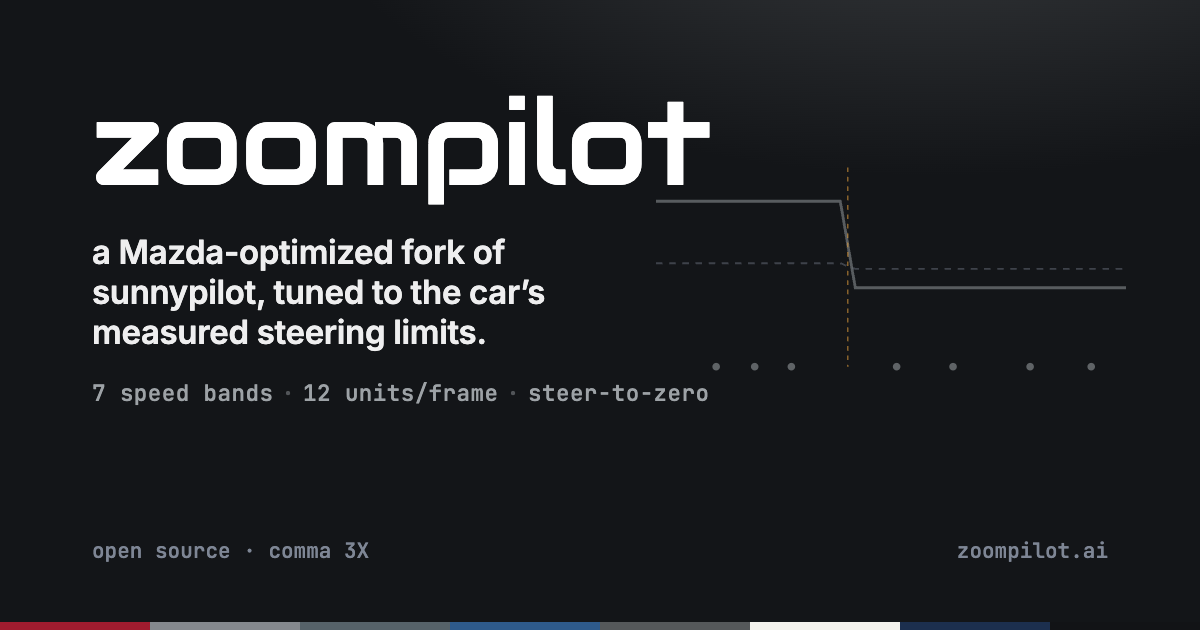
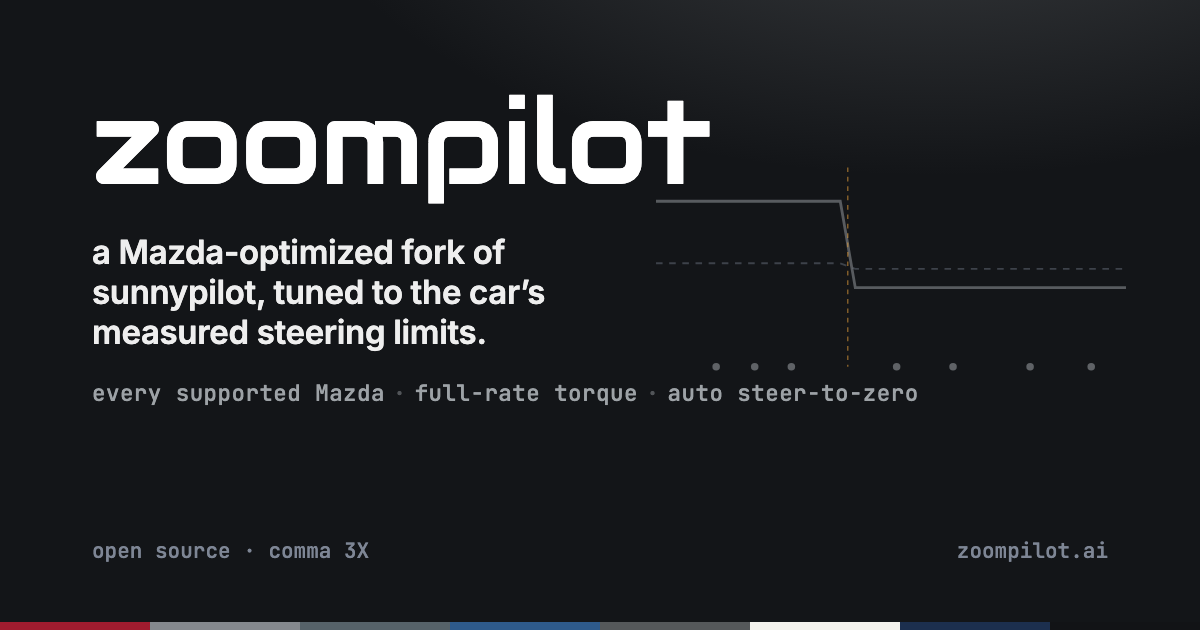
Coverage copy: the platform list is the run list; the EPS adds steer-to-zero
Mirror the wiki's corrected support model. zoompilot runs on every
platform in values.py; the 2022-25 CX-5 EPS enables steer-to-zero
wherever it is fitted - it is not a requirement to run.

- hero/meta and section 06 intro: scoped-EPS wording, platform list named
- SpecStrip: stat rescoped to the support list
- Compare: new row, steer-to-zero on a swap with the car's own specs
  vs sunnypilot's manual CX-5 platform selection; FAQ carries the point
- CarChecker: Mazda 3 and Mazda 6 added; full / stock-envelope /
  community-reported tiers
- CarTable: 'Reported working' pill tone (dashed)
- og card: 'every supported Mazda' spec line, PNG regenerated
- supported-cars.json + sync-state: regenerated via npm run sync:wiki

Also includes hand edits to section 01 ledger wording.

Changed region(s): [[0.0617, 0.6032, 0.7708, 0.6333], [0.0925, 0.2111, 0.1233, 0.2714]]

diff --git a/scripts/og-card.html b/scripts/og-card.html
@@ -97,7 +97,7 @@
 <body>
   <div class="wordmark">zoompilot</div>
   <div class="tagline">a Mazda-optimized fork of sunnypilot, tuned to the car&rsquo;s measured steering limits.</div>
-  <div class="specline">any Mazda, stock or swapped<span class="sep">·</span>full-rate torque<span class="sep">·</span>steer-to-zero</div>
+  <div class="specline">every supported Mazda<span class="sep">·</span>full-rate torque<span class="sep">·</span>auto steer-to-zero</div>
   <svg class="cliff" viewBox="0 0 500 230" aria-hidden="true">
     <g fill="none">
       <path d="M 0 46 H 196 L 212 138 H 500" stroke="#9da2a6" stroke-width="3" opacity="0.5"/>

diff --git a/src/styles/site.css b/src/styles/site.css
@@ -1210,6 +1210,11 @@ ol.log ul ul {
   color: var(--dim);
   border: 1px solid var(--hair-strong);
 }
+/* community-reported: a dashed border says "report, not verified" */
+.pill-reported {
+  color: var(--dim);
+  border: 1px dashed var(--accent);
+}
 
 /* ---------- support checker (section 06) ---------- */
 .checker {
